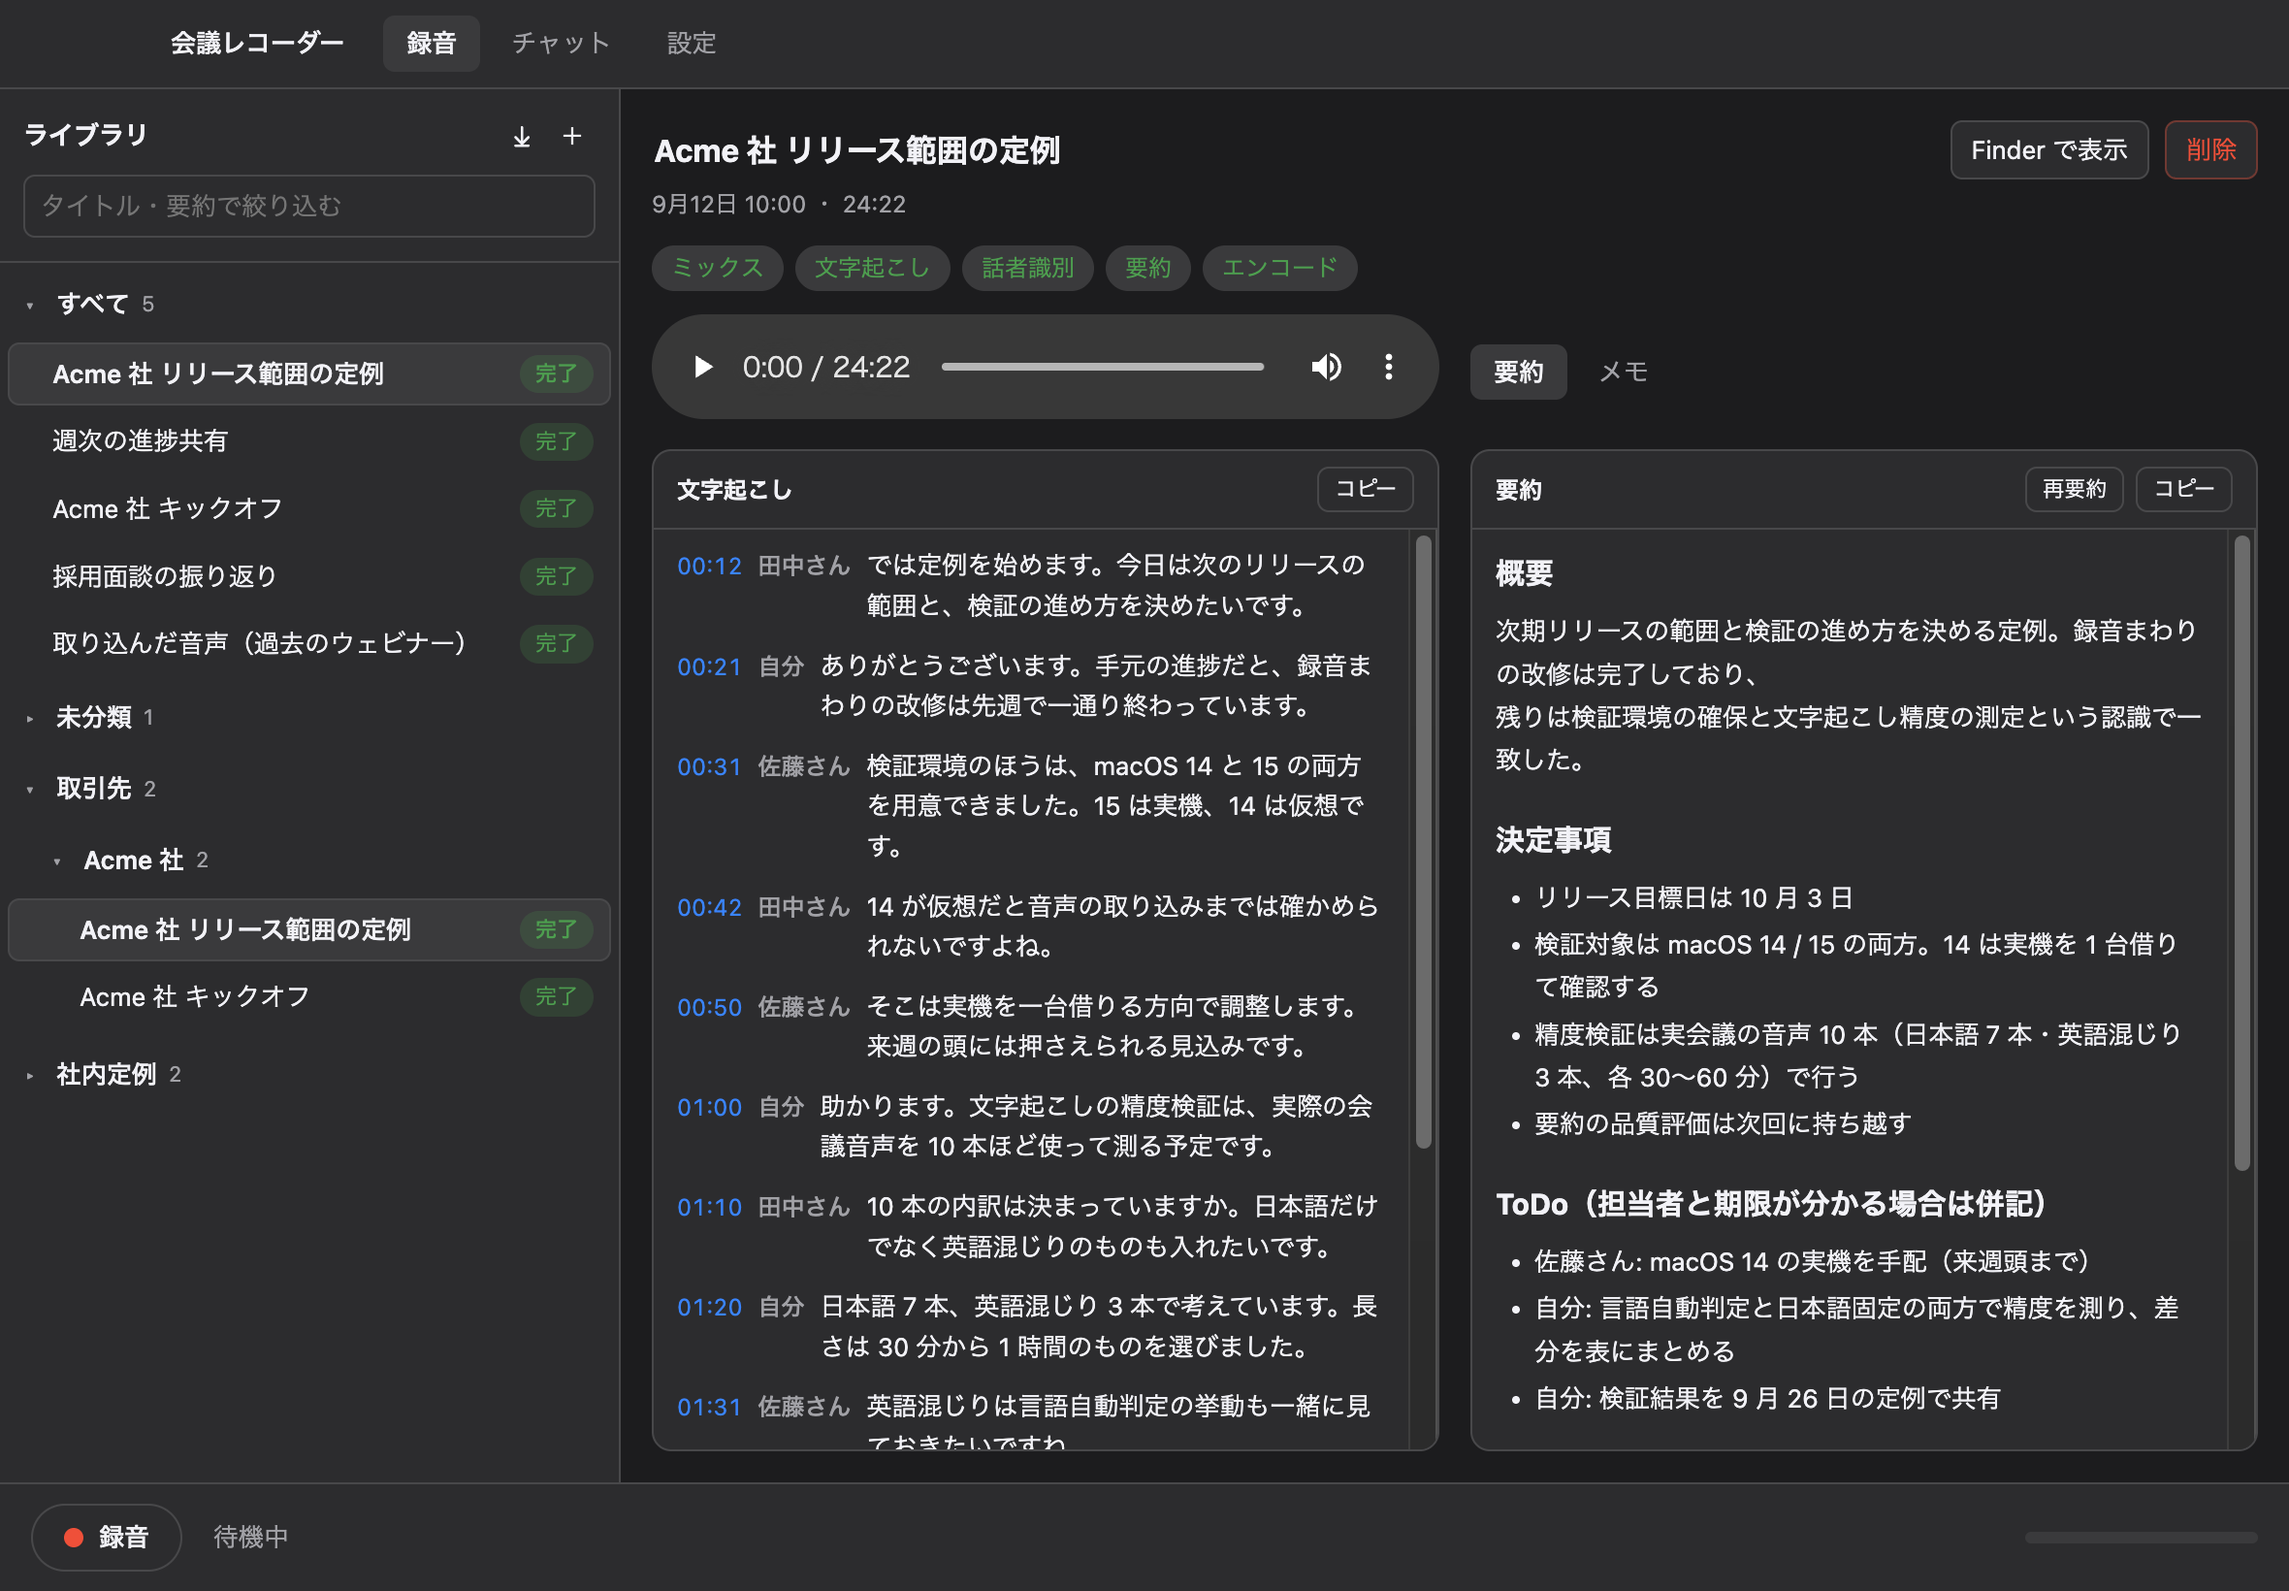
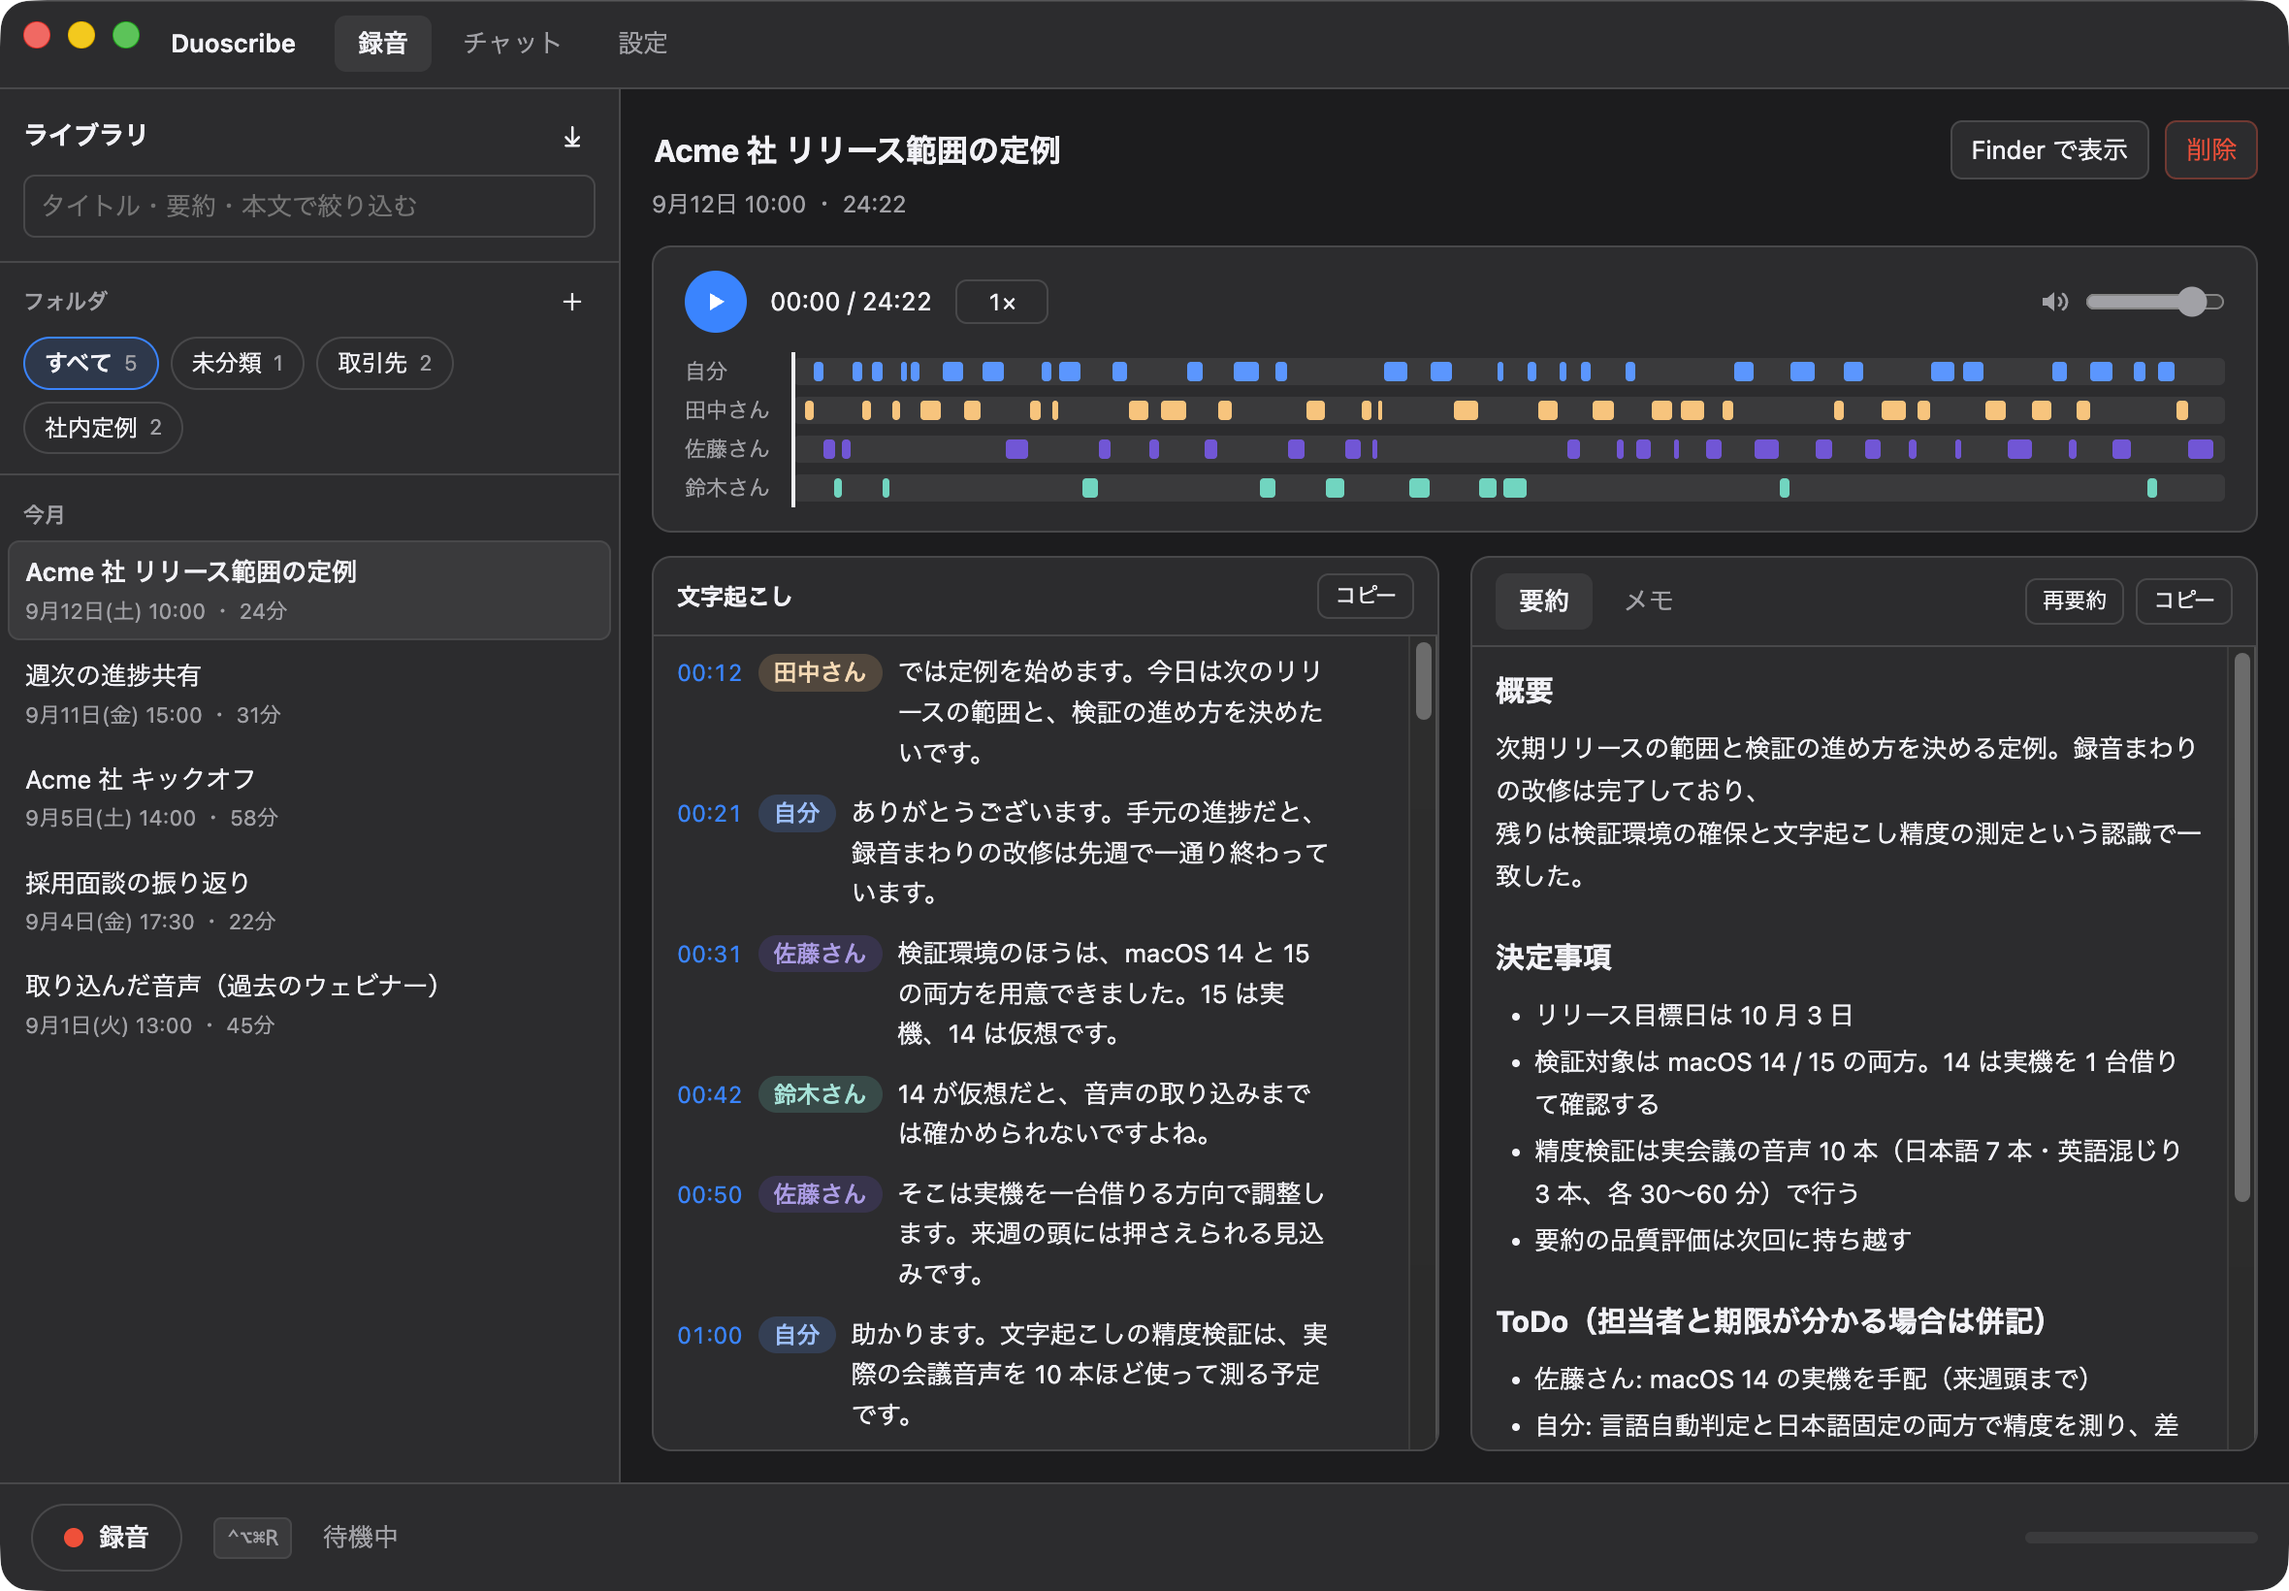
README を今の画面に合わせ、利用者向けの内容に絞る (#73)
詳細画面に話者ごとの発言の帯と独自の再生操作が入り（#71 / #72）、
スクリーンショットが実際の画面と食い違っていたので撮り直した。
架空のダミーデータで起動し、ウィンドウを枠ごと撮っている。

配布版の入手先が README から辿れなかったので「インストール方法」を
動作要件の直後に置き、Releases へのリンクと隔離属性を外す手順を載せた。

アーキテクチャ・whisper-cli の同梱・モジュール形式・署名の Secrets は
開発者向けの内容で、CLAUDE.md と docs/ にほぼ同じ記述がある。README からは
外し、どこにも無かった postinstall の役割、whisper-cli の解決順、
署名・公証の Secrets は CLAUDE.md に移した。

diff --git a/CLAUDE.md b/CLAUDE.md
@@ -36,6 +36,16 @@ npx vitest run -t "テスト名の一部"
 
 - **macOS 必須**。テストは実際の `/usr/bin/afconvert` を通し、`postinstall` は
   PlistBuddy と codesign を使う。CI も `macos-15` ランナー。
+- `postinstall`（`scripts/patch-dev-electron.sh`）は開発用 Electron.app に
+  `NSAudioCaptureUsageDescription` / `NSMicrophoneUsageDescription` を注入して ad-hoc 再署名する。
+  これが無いと開発中に音声キャプチャの権限を取れない。`npm ci` し直したら再実行される。
+- whisper-cli は「設定のパス（既定値 `whisper-cli` 以外）→ 同梱バイナリ → PATH」の順に解決する。
+  `npm run setup` が入れる Homebrew 版は Core ML 無しなので、Core ML の高速化を開発中に
+  確かめるときは `npm run build:whisper` のビルドを設定でパス指定する（ADR-007 / ADR-026）。
+- リリースは `v*` タグの push で `.github/workflows/release.yml` が .dmg を作る。Secrets に
+  `MAC_CERT_P12_BASE64` / `MAC_CERT_PASSWORD`（署名）と `APPLE_ID` /
+  `APPLE_APP_SPECIFIC_PASSWORD` / `APPLE_TEAM_ID`（公証）が揃えば正式に署名・公証し、
+  無ければ ad-hoc 署名になる。
 - `npm run lint` は **oxlint**（`.oxlintrc.json`）。TypeScript 7 が従来の JS コンパイラ
   API を公開しなくなり typescript-eslint が動かないため、ESLint ではなく oxlint を使う。
   `react/set-state-in-effect` と一部の `jsx-a11y` は既知の未対応として警告に留めてある
